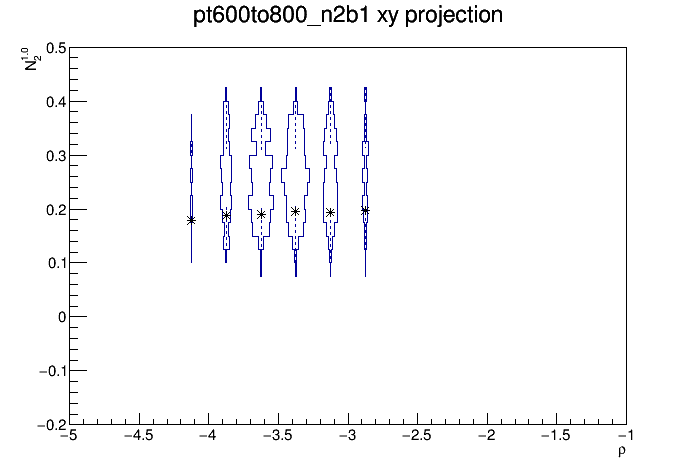
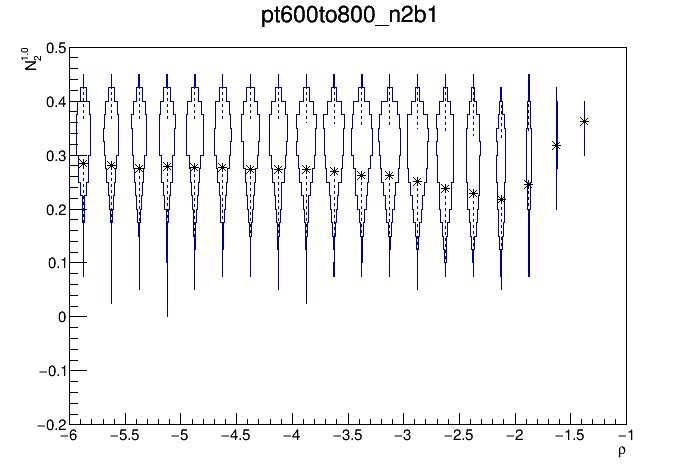
modify the plot param.

diff --git a/N2_study.C b/N2_study.C
@@ -127,7 +127,7 @@ void Draw_and_write( vector<vector<Data>>& v, string name, vector<Double_t>& vn2
 	auto c1 = new TCanvas(Form("c_%s_n2b1",name.c_str()),Form("c_%s_n2b1",name.c_str()) );
 	//h1->SetTitle(Form("%s_n2b1",name.c_str()));
 	TH1* h11 = h1->Project3D("XY");
-	h11->SetTitle("");
+	h11->SetTitle(Form("%s_n2b1",name.c_str()));
 	h11->Draw("VIOLIN(03001000)");
 	dt1->Draw("* SAME");
 	//legend->Draw();
@@ -136,7 +136,7 @@ void Draw_and_write( vector<vector<Data>>& v, string name, vector<Double_t>& vn2
 	auto c2 = new TCanvas(Form("c_%s_n2b2",name.c_str()),Form("c_%s_n2b2",name.c_str()) );
 	//h2->SetTitle(Form("%s_n2b2",name.c_str()));
 	TH1* h22 = h2->Project3D("XY");
-	h22->SetTitle("");
+	h22->SetTitle(Form("%s_n2b2",name.c_str()));
 	h22->Draw("VIOLIN(03001000)");
 	dt2->Draw("* SAME");
 	//legend->Draw();
@@ -145,15 +145,17 @@ void Draw_and_write( vector<vector<Data>>& v, string name, vector<Double_t>& vn2
 	auto c3 = new TCanvas(Form("c_%s_n2b1DDT",name.c_str()),Form("c_%s_n2b1DDT",name.c_str()) );
 	//h3->SetTitle(Form("%s_n2b1DDT",name.c_str()));
 	TH1* h33 = h3->Project3D("XY");
-	h33->SetTitle("");
+	h33->SetTitle(Form("%s_n2b1DDT",name.c_str()));
 	h33->Draw("VIOLIN(03001000)");
 	dt0->Draw("* SAME");
 	//legend->Draw();
 	c3->Write();
 	c3->SaveAs(Form("c_%s_n2b1DDT.png",name.c_str()) );
 	auto c4 = new TCanvas(Form("c_%s_n2b2DDT",name.c_str()),Form("c_%s_n2b2DDT",name.c_str()) );
-	h4->SetTitle(Form("%s_n2b2DDT",name.c_str()));
-	h4->Project3D("XY")->Draw("VIOLINX(03001000)");
+	//h4->SetTitle(Form("%s_n2b2DDT",name.c_str()));
+	TH1* h44 = h4->Project3D("XY");
+	h44->SetTitle(Form("%s_n2b2DDT",name.c_str()));
+	h44->Draw("VIOLINX(03001000)");
 	dt0->Draw("* SAME");
 	//legend->Draw();
 	c4->Write();
@@ -221,13 +223,13 @@ void N2_study(){
 	Draw_and_write(v1,"5",n2b1_v5,n2b2_v5,0.05);
 	Draw_and_write(v1,"50",n2b1_v50,n2b2_v50,0.5);
 	
-	Draw_and_write(v_pt1,"pt200to400",v_for_no_used,v_for_no_used_2,0.2);
+	Draw_and_write(v_pt1,"pt200to400",v_for_no_used,v_for_no_used_2,0.26);
 	v_for_no_used.clear(); v_for_no_used_2.clear();
-	Draw_and_write(v_pt2,"pt400to600",v_for_no_used,v_for_no_used_2,0.2);
+	Draw_and_write(v_pt2,"pt400to600",v_for_no_used,v_for_no_used_2,0.26);
 	v_for_no_used.clear(); v_for_no_used_2.clear();
-	Draw_and_write(v_pt3,"pt600to800",v_for_no_used,v_for_no_used_2,0.2);
+	Draw_and_write(v_pt3,"pt600to800",v_for_no_used,v_for_no_used_2,0.26);
 	v_for_no_used.clear(); v_for_no_used_2.clear();
-	Draw_and_write(v_pt4,"ptOver800",v_for_no_used,v_for_no_used_2,0.2);
+	Draw_and_write(v_pt4,"ptOver800",v_for_no_used,v_for_no_used_2,0.26);
 	
 	// get different N2b1 cut
 	sort_Nper(v_total,n2b1_cut);
